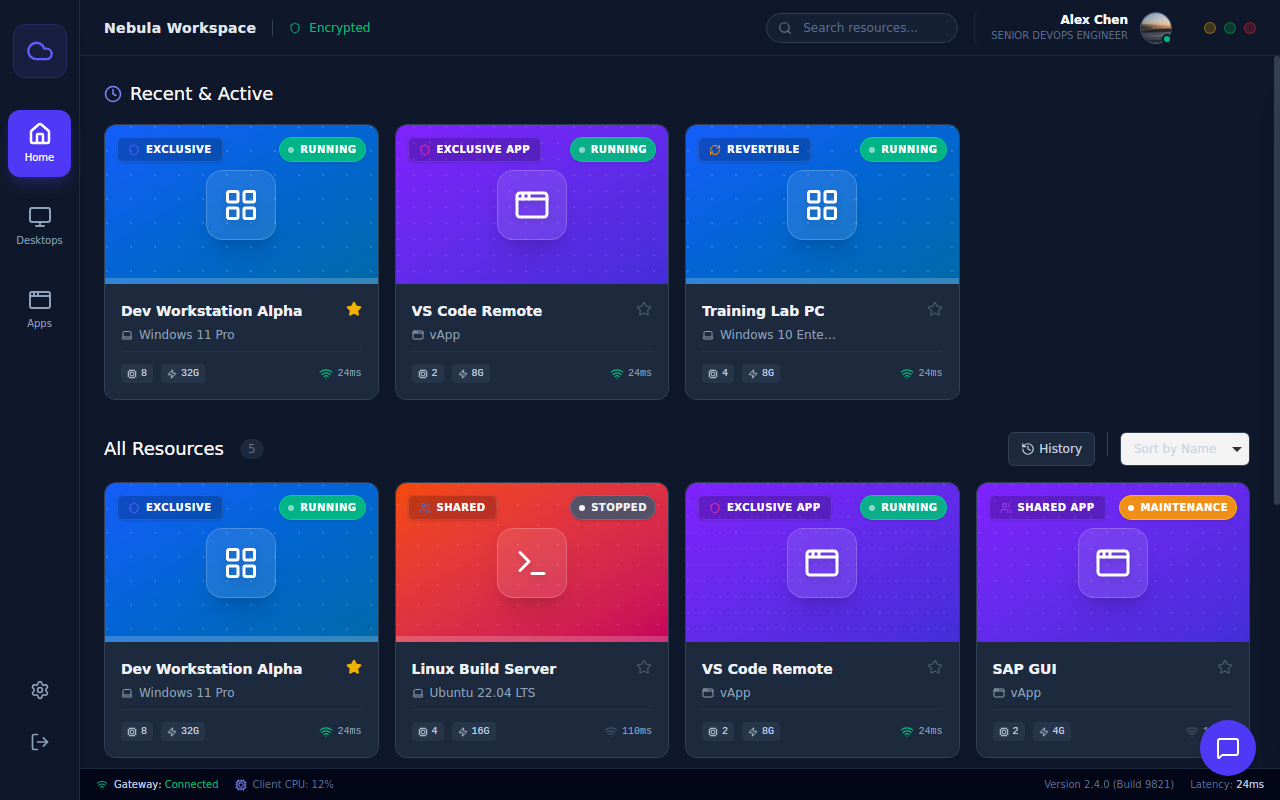
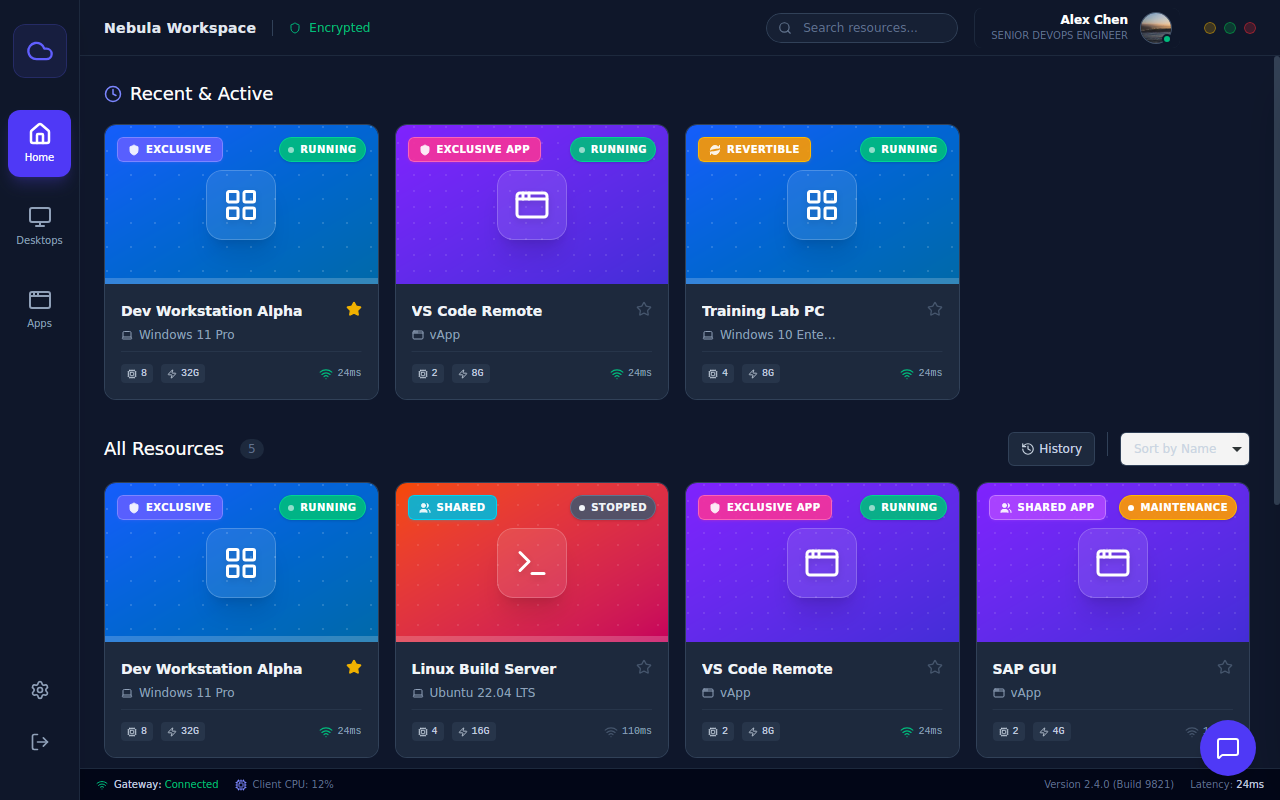
feat: Refactor resource subtype styling in Dashboard

diff --git a/src/components/Dashboard.tsx b/src/components/Dashboard.tsx
@@ -468,31 +468,79 @@ const Dashboard: React.FC<DashboardProps> = ({ onLaunch, category, searchQuery }
     const theme = getResourceTheme(resource);
     const ThemeIcon = theme.icon;
 
-    // Determine subtype icon and badge style
-    const getSubTypeInfo = (subType: ResourceSubType) => {
+    // Determine subtype visual styles
+    const getSubTypeStyles = (subType: ResourceSubType) => {
       switch (subType) {
         case ResourceSubType.DESKTOP_EXCLUSIVE:
-          return { icon: Shield, label: t('subtype.desktop_exclusive'), color: 'text-indigo-500 bg-indigo-50 dark:bg-indigo-900/20' };
+          return {
+            icon: Shield,
+            label: t('subtype.desktop_exclusive'),
+            border: 'group-hover:border-indigo-500 dark:group-hover:border-indigo-400',
+            shadow: 'hover:shadow-indigo-500/10',
+            badge: 'bg-indigo-500/90 text-white border-indigo-400 shadow-indigo-500/20',
+            indicator: 'bg-indigo-500',
+            bodyHighlight: 'group-hover:from-indigo-50/50 dark:group-hover:from-indigo-900/10'
+          };
         case ResourceSubType.DESKTOP_SHARED:
-          return { icon: Users, label: t('subtype.desktop_shared'), color: 'text-blue-500 bg-blue-50 dark:bg-blue-900/20' };
+          return {
+            icon: Users,
+            label: t('subtype.desktop_shared'),
+            border: 'group-hover:border-cyan-500 dark:group-hover:border-cyan-400',
+            shadow: 'hover:shadow-cyan-500/10',
+            badge: 'bg-cyan-500/90 text-white border-cyan-400 shadow-cyan-500/20',
+            indicator: 'bg-cyan-500',
+            bodyHighlight: 'group-hover:from-cyan-50/50 dark:group-hover:from-cyan-900/10'
+          };
         case ResourceSubType.DESKTOP_REVERTIBLE:
-          return { icon: RefreshCw, label: t('subtype.desktop_revertible'), color: 'text-amber-500 bg-amber-50 dark:bg-amber-900/20' };
+          return {
+            icon: RefreshCw,
+            label: t('subtype.desktop_revertible'),
+            border: 'group-hover:border-amber-500 dark:group-hover:border-amber-400',
+            shadow: 'hover:shadow-amber-500/10',
+            badge: 'bg-amber-500/90 text-white border-amber-400 shadow-amber-500/20',
+            indicator: 'bg-amber-500',
+            bodyHighlight: 'group-hover:from-amber-50/50 dark:group-hover:from-amber-900/10'
+          };
         case ResourceSubType.APP_EXCLUSIVE:
-          return { icon: Shield, label: t('subtype.app_exclusive'), color: 'text-pink-500 bg-pink-50 dark:bg-pink-900/20' };
+          return {
+            icon: Shield,
+            label: t('subtype.app_exclusive'),
+            border: 'group-hover:border-pink-500 dark:group-hover:border-pink-400',
+            shadow: 'hover:shadow-pink-500/10',
+            badge: 'bg-pink-500/90 text-white border-pink-400 shadow-pink-500/20',
+            indicator: 'bg-pink-500',
+            bodyHighlight: 'group-hover:from-pink-50/50 dark:group-hover:from-pink-900/10'
+          };
         case ResourceSubType.APP_SHARED:
-          return { icon: Users, label: t('subtype.app_shared'), color: 'text-purple-500 bg-purple-50 dark:bg-purple-900/20' };
+          return {
+            icon: Users,
+            label: t('subtype.app_shared'),
+            border: 'group-hover:border-purple-500 dark:group-hover:border-purple-400',
+            shadow: 'hover:shadow-purple-500/10',
+            badge: 'bg-purple-500/90 text-white border-purple-400 shadow-purple-500/20',
+            indicator: 'bg-purple-500',
+            bodyHighlight: 'group-hover:from-purple-50/50 dark:group-hover:from-purple-900/10'
+          };
         default:
-          return { icon: Info, label: 'Unknown', color: 'text-slate-500' };
+          return {
+            icon: Info,
+            label: 'Unknown',
+            border: 'group-hover:border-slate-400',
+            shadow: '',
+            badge: 'bg-slate-600 text-slate-200',
+            indicator: 'bg-slate-500',
+            bodyHighlight: ''
+          };
       }
     }
 
-    const subTypeInfo = getSubTypeInfo(resource.subType);
-    const SubTypeIcon = subTypeInfo.icon;
+    const styles = getSubTypeStyles(resource.subType);
+    const SubTypeIcon = styles.icon;
 
     return (
       <div
         onClick={() => !isProcessing && setSelectedResourceId(resource.id)}
-        className={`group relative bg-white dark:bg-slate-800 border border-slate-200 dark:border-slate-700 rounded-xl transition-all duration-300 hover:shadow-xl hover:border-indigo-300 dark:hover:border-indigo-500 overflow-hidden flex flex-col cursor-pointer ${
+        className={`group relative bg-white dark:bg-slate-800 border border-slate-200 dark:border-slate-700 rounded-xl transition-all duration-300 hover:shadow-xl ${styles.border} ${styles.shadow} overflow-hidden flex flex-col cursor-pointer ${
           large ? 'col-span-1 md:col-span-2 row-span-2' : ''
         } ${isProcessing ? 'pointer-events-none opacity-90' : ''}`}
       >
@@ -519,11 +567,11 @@ const Dashboard: React.FC<DashboardProps> = ({ onLaunch, category, searchQuery }
             </div>
           </div>
 
-          {/* SubType Badge - Prominent on the "Desktop" face */}
+          {/* SubType Badge - Updated Style */}
           <div className="absolute top-3 left-3 z-20">
-            <div className="flex items-center gap-1.5 px-2.5 py-1 rounded-md bg-black/20 backdrop-blur-md border border-white/10 shadow-sm text-white text-[10px] font-bold uppercase tracking-wider">
-              <SubTypeIcon size={12} className={subTypeInfo.color.split(' ')[0]} />
-              <span>{subTypeInfo.label}</span>
+            <div className={`flex items-center gap-1.5 px-2.5 py-1 rounded-md backdrop-blur-md border shadow-sm text-[10px] font-bold uppercase tracking-wider ${styles.badge}`}>
+              <SubTypeIcon size={12} fill="currentColor" className="opacity-90" />
+              <span>{styles.label}</span>
             </div>
           </div>
 
@@ -618,37 +666,39 @@ const Dashboard: React.FC<DashboardProps> = ({ onLaunch, category, searchQuery }
         </div>
 
         {/* Card Body */}
-        <div className="p-4 flex-1 flex flex-col bg-white dark:bg-slate-800">
-          <div className="flex items-start justify-between mb-2">
-            <div className="overflow-hidden w-full">
-              <div className="flex justify-between items-start">
-                <h3 className="text-sm font-bold text-slate-900 dark:text-slate-100 truncate group-hover:text-indigo-600 dark:group-hover:text-indigo-400 transition-colors pr-6">
-                  {resource.name}
-                 </h3>
+        <div className={`p-4 flex-1 flex flex-col relative bg-white dark:bg-slate-800 bg-gradient-to-br from-transparent to-transparent ${styles.bodyHighlight} transition-all duration-300`}>
+            {/* Visual Indicator Bar on Left */}
+            <div className={`absolute left-0 top-6 bottom-6 w-0.5 rounded-r ${styles.indicator} opacity-0 group-hover:opacity-100 transition-opacity duration-300`} />
+            <div className="flex items-start justify-between mb-2">
+              <div className="overflow-hidden w-full">
+                <div className="flex justify-between items-start">
+                  <h3 className="text-sm font-bold text-slate-900 dark:text-slate-100 truncate group-hover:text-indigo-600 dark:group-hover:text-indigo-400 transition-colors pr-6">
+                    {resource.name}
+                  </h3>
 
-                {/* Favorite Star Button (Moved to body for cleaner card face) */}
-                <button
-                  className={`p-1 -mr-1 -mt-1 rounded transition-colors ${
-                    isFavorite
-                      ? 'text-yellow-500 hover:text-yellow-600'
-                      : 'text-slate-300 dark:text-slate-600 hover:text-yellow-400'
-                  }`}
-                  onClick={(e) => {
-                    e.stopPropagation();
-                    toggleFavorite(resource.id);
-                  }}
-                >
+                  {/* Favorite Star Button (Moved to body for cleaner card face) */}
+                  <button
+                    className={`p-1 -mr-1 -mt-1 rounded transition-colors ${
+                      isFavorite
+                        ? 'text-yellow-500 hover:text-yellow-600'
+                        : 'text-slate-300 dark:text-slate-600 hover:text-yellow-400'
+                    }`}
+                    onClick={(e) => {
+                      e.stopPropagation();
+                      toggleFavorite(resource.id);
+                    }}
+                  >
                   <Star size={16} fill={isFavorite ? "currentColor" : "none"} />
-                </button>
-              </div>
+                  </button>
+                </div>
 
-              <div className="flex items-center gap-2 mt-1.5">
-                <div className="flex items-center gap-1.5 text-xs text-slate-500 dark:text-slate-400">
-                  {isDesktop ? <Laptop size={12} /> : <AppWindow size={12} />}
-                  <span className="truncate max-w-[120px]">{resource.os}</span>
+                <div className="flex items-center gap-2 mt-1.5">
+                  <div className="flex items-center gap-1.5 text-xs text-slate-500 dark:text-slate-400">
+                    {isDesktop ? <Laptop size={12} /> : <AppWindow size={12} />}
+                    <span className="truncate max-w-[120px]">{resource.os}</span>
+                  </div>
                 </div>
               </div>
-            </div>
           </div>
 
           <div className="mt-auto pt-3 flex items-center justify-between border-t border-slate-100 dark:border-slate-700/50">
